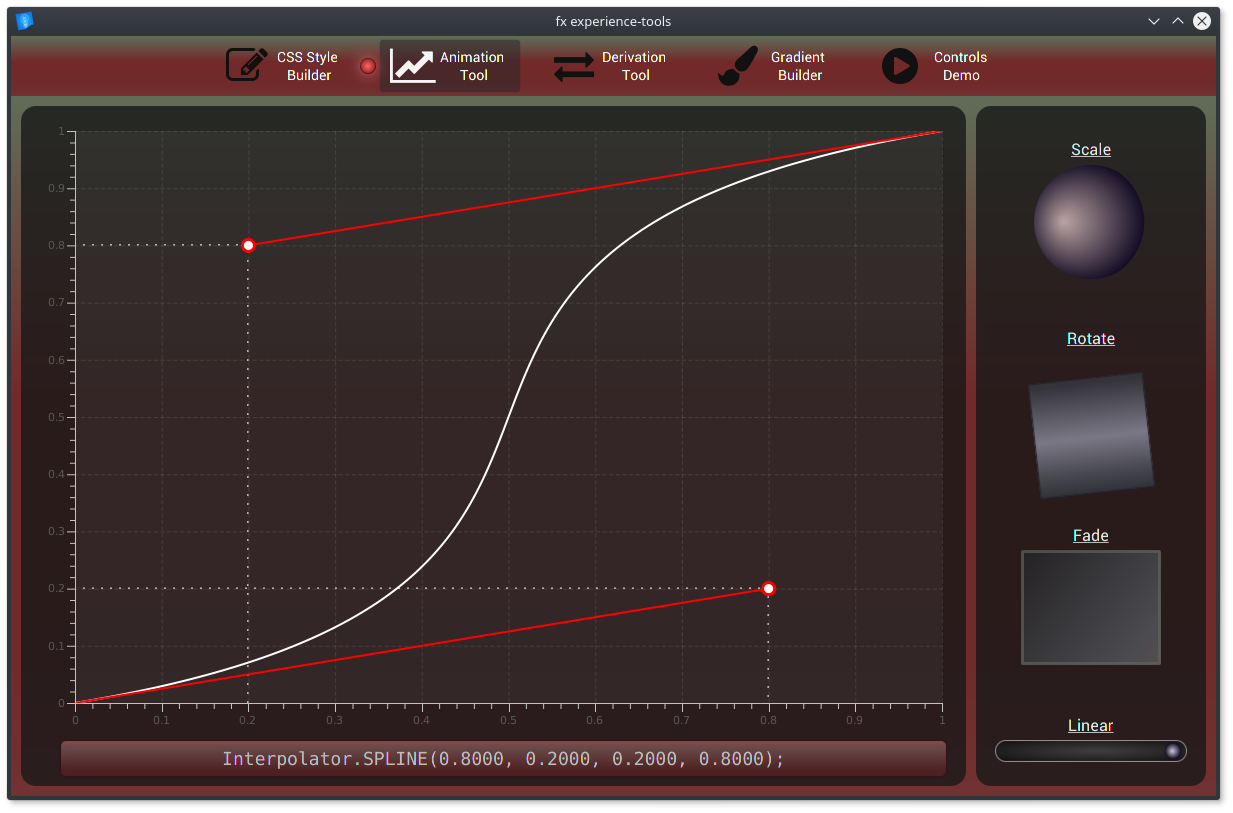
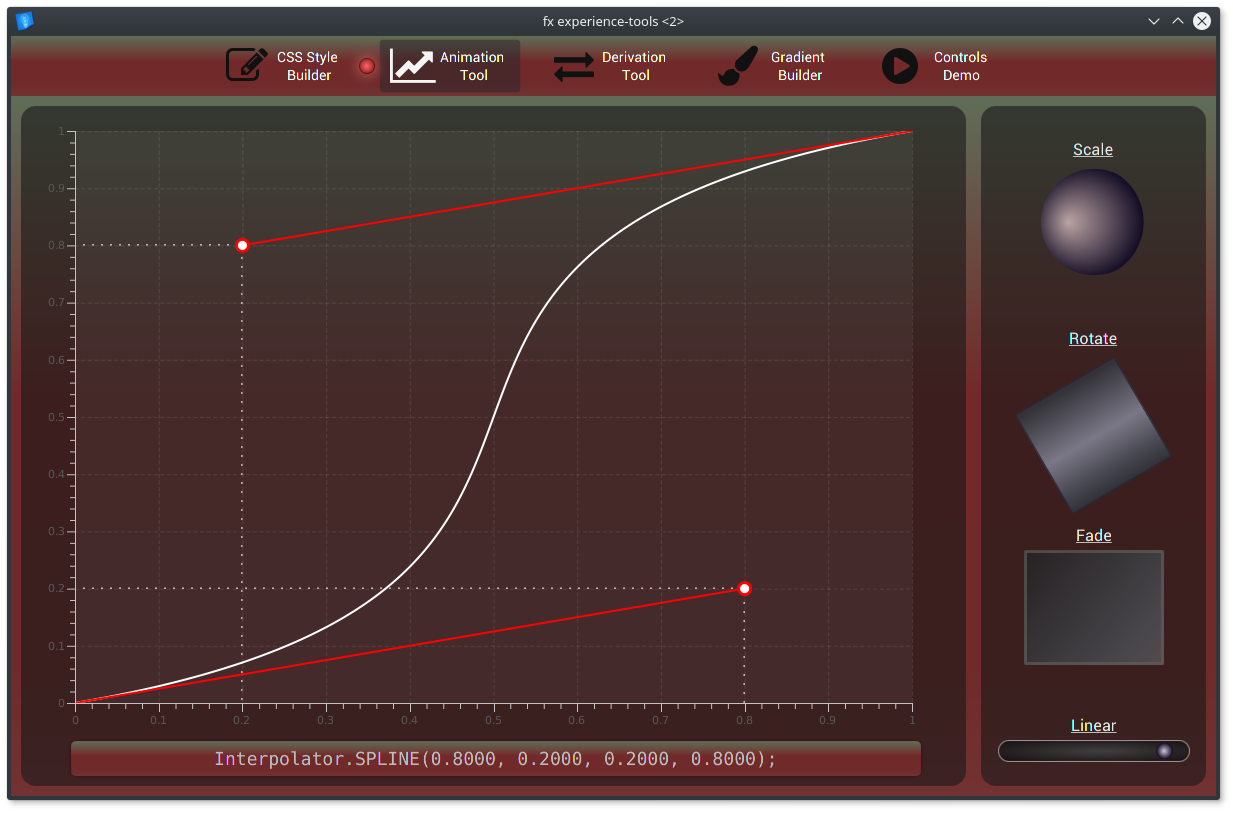
removed duplicate code css builder

diff --git a/FXExperienceTools/src/main/resources/styles/spline.css b/FXExperienceTools/src/main/resources/styles/spline.css
@@ -31,15 +31,18 @@ different terms and without source code for the larger work.
 }
 
 #SplineEditor {
-    -fx-background-color: linear-gradient(from 100.0% 0.0% to 100.0% 99.0% , #606c57 0.0% , #606c57 1.0% , #732929 43.0% , #702a2a 82.0% , #723232 100.0% );
+    -fx-background-color:
+            linear-gradient(from 100.0% 0.0% to 100.0% 99.0% , #606c57 0.0% , #606c57 1.0% , #732929 43.0% , #702a2a 82.0% , #723232 100.0% );
     /*-fx-effect: innershadow( three-pass-box , rgba(0,0,0,0.4) , 80, 0.0 , 0 , 0 );*/
 }
 .spline-grid-pane {
-    -fx-background-color: rgba(24, 24, 24, .8);
+    -fx-background-color: rgba(24, 24, 24, .6);
     -fx-background-radius: 15px;
 }
 #Animation-preview {
-    -fx-background-color: rgba(24, 24, 24, .8);
+    -fx-background-color: rgba(24, 24, 24, .6);
+    /*-fx-background-color: radial-gradient(focus-angle 0.0deg , focus-distance 0.0% ,*/
+    /*center 50.0%  50.0% , radius 100.0% , #3d4754 0.0% , #3d4754 5.0% , #000000 97.0% , #000000 100.0% );*/
     -fx-background-radius: 15px;
 }
 
@@ -61,8 +64,8 @@ different terms and without source code for the larger work.
     -fx-font-size: 18px;
     -fx-text-fill: #BCBCBC;
     -fx-background-radius: 5px;
-    -fx-background-color: linear-gradient(from 100.0% 1.0% to 100.0% 100.0% ,
-        #804b4b 0.0% , #804b4b 1.0% , #694848 20.0% , #4d2121 84.0% , #4d2121 100.0% );
+    -fx-background-color: linear-gradient(from 100.0% 0.0% to 100.0% 99.0% , #606c57 0.0% ,
+    #606c57 1.0% , #732929 43.0% , #702a2a 82.0% , #723232 100.0% );
 }
 
 .chart-plot-background {

diff --git a/FXExperienceTools/src/main/java/com/fxexperience/tools/controller/StyleController.java b/FXExperienceTools/src/main/java/com/fxexperience/tools/controller/StyleController.java
@@ -82,11 +82,9 @@ public class StyleController extends VBox {
 
     @FXML private Label baseTextLabel, backgroundTextLabel, fieldTextLabel;
 
-    private Font font = Font.getDefault();
-
     private final CssEditor codeArea = new CssEditor();
-    private final FontPickerController fontPickerController = new FontPickerController();
     private final PreviewController previewController = new PreviewController();
+    private final FontPickerController fontPickerController = new FontPickerController();
 
     private final ColorPopupEditor basePicker = new ColorPopupEditor(Mode.SINGLE, Color.web("#213870"));
     private final ColorPopupEditor accentPicker = new ColorPopupEditor(Mode.SINGLE, Color.web("#0096C9"));
@@ -104,7 +102,7 @@ public class StyleController extends VBox {
     private void initialize() {
         try {
             final FXMLLoader loader = new FXMLLoader();
-            loader.setLocation(StyleController.class.getResource("/fxml/FXMLStylerPanel.fxml")); //NOI18N
+            loader.setLocation(StyleController.class.getResource("/fxml/FXMLStylePanel.fxml")); //NOI18N
             loader.setController(this);
             loader.setRoot(this);
             loader.load();
@@ -190,6 +188,7 @@ public class StyleController extends VBox {
         // Font choice box
         fontPickerController.fontProperty().addListener(o -> buildRootStyle());
 
+        // Disabled properties
         baseTextLabel.disableProperty().bind(baseTextToggle.selectedProperty().not());
         baseTextPicker.disableProperty().bind(baseTextToggle.selectedProperty().not());
         backgroundTextLabel.disableProperty().bind(baseTextToggle.selectedProperty().not());
@@ -197,11 +196,12 @@ public class StyleController extends VBox {
         fieldTextLabel.disableProperty().bind(baseTextToggle.selectedProperty().not());
         fieldTextPicker.disableProperty().bind(fieldTextToggle.selectedProperty().not());
 
+        // Toggles
         baseTextToggle.selectedProperty().addListener(o -> buildRootStyle());
         backgroundTextToggle.selectedProperty().addListener(o -> buildRootStyle());
         fieldTextToggle.selectedProperty().addListener(o -> buildRootStyle());
 
-        // Paint pickers and toggles
+        // Paint pickers
         basePicker.getRectangle().fillProperty().addListener(o -> buildRootStyle());
         accentPicker.getRectangle().fillProperty().addListener(o -> buildRootStyle());
         backgroundPicker.getRectangle().fillProperty().addListener(o -> buildRootStyle());
@@ -257,26 +257,9 @@ public class StyleController extends VBox {
 
         if (baseTextToggle.isSelected()) {
             baseTextToggle.setText("ON");
-            sbRoot.append("-fx-text-base-color: ").append(fieldBackgroundPicker.getColorString()).append(";");
-        } else {
-            baseTextToggle.setText("AUTO");
-        }
-        if (backgroundTextToggle.isSelected()) {
-            backgroundTextToggle.setText("ON");
-            sbRoot.append("-fx-text-background-color: ").append(fieldTextPicker.getColorString()).append(";");
-        } else {
-            backgroundTextToggle.setText("AUTO");
-        }
-        if (fieldTextToggle.isSelected()) {
-            fieldTextToggle.setText("ON");
-            sbRoot.append("-fx-text-inner-color: ").append(fieldTextPicker.getColorString()).append(";");
-        } else {
-            fieldTextToggle.setText("AUTO");
-        }
-
-        if (baseTextToggle.isSelected()) {
-            baseTextToggle.setText("ON");
-            sbRoot.append("-fx-text-base-color: ").append(baseTextPicker.getColorString()).append(";");
+            sbRoot.append("-fx-text-base-color: ");
+            sbRoot.append(baseTextPicker.getColorString());
+            sbRoot.append(";");
         } else {
             baseTextToggle.setText("AUTO");
         }
@@ -296,7 +279,7 @@ public class StyleController extends VBox {
         } else {
             fieldTextToggle.setText("AUTO");
         }
-
+        
         String innerTopDerivation = String.format("%.1f", bodyTopSlider.getValue()
                 + (100 - bodyTopSlider.getValue()) * (topHighlightSlider.getValue() / 100));
 

diff --git a/FXExperienceTools/src/main/java/com/fxexperience/tools/controller/MainController.java b/FXExperienceTools/src/main/java/com/fxexperience/tools/controller/MainController.java
@@ -204,8 +204,9 @@ public final class MainController extends AbstractController implements Initiali
     }
 
     private void setSelectedIconBullet(Node toggleButton) {
-        selectedIconBullet.layoutXProperty().bind(toggleButton.layoutXProperty().subtract(12));
+        selectedIconBullet.layoutXProperty().bind(toggleButton.layoutXProperty().subtract(13));
         setBulletEffect();
+
     }
 
     private void setBulletEffect() {
@@ -218,15 +219,17 @@ public final class MainController extends AbstractController implements Initiali
             timedAnimation.getKeyFrames().addAll(
                     new KeyFrame(
                             Duration.ZERO,
-                            new KeyValue(circleBullet.opacityProperty(), 1d, Interpolator.SPLINE(0.9077, 0.0087, 0.7832, 0.8566))
+                            new KeyValue(circleBullet.opacityProperty(),
+                                    1d, Interpolator.SPLINE(0.9077, 0.0087, 0.7832, 0.8566))
 
                     ),
                     new KeyFrame(
                             Duration.seconds(.5),
-                            new KeyValue(circleBullet.opacityProperty(), .2d, Interpolator.SPLINE(0.7301, 0.7570, 0.6597, 0.9930))
+                            new KeyValue(circleBullet.opacityProperty(),
+                                    .2d, Interpolator.SPLINE(0.7301, 0.7570, 0.6597, 0.9930))
                     )
-            );
-            timedAnimation.play();
+            ); timedAnimation.play();
+
         });
     }
 
